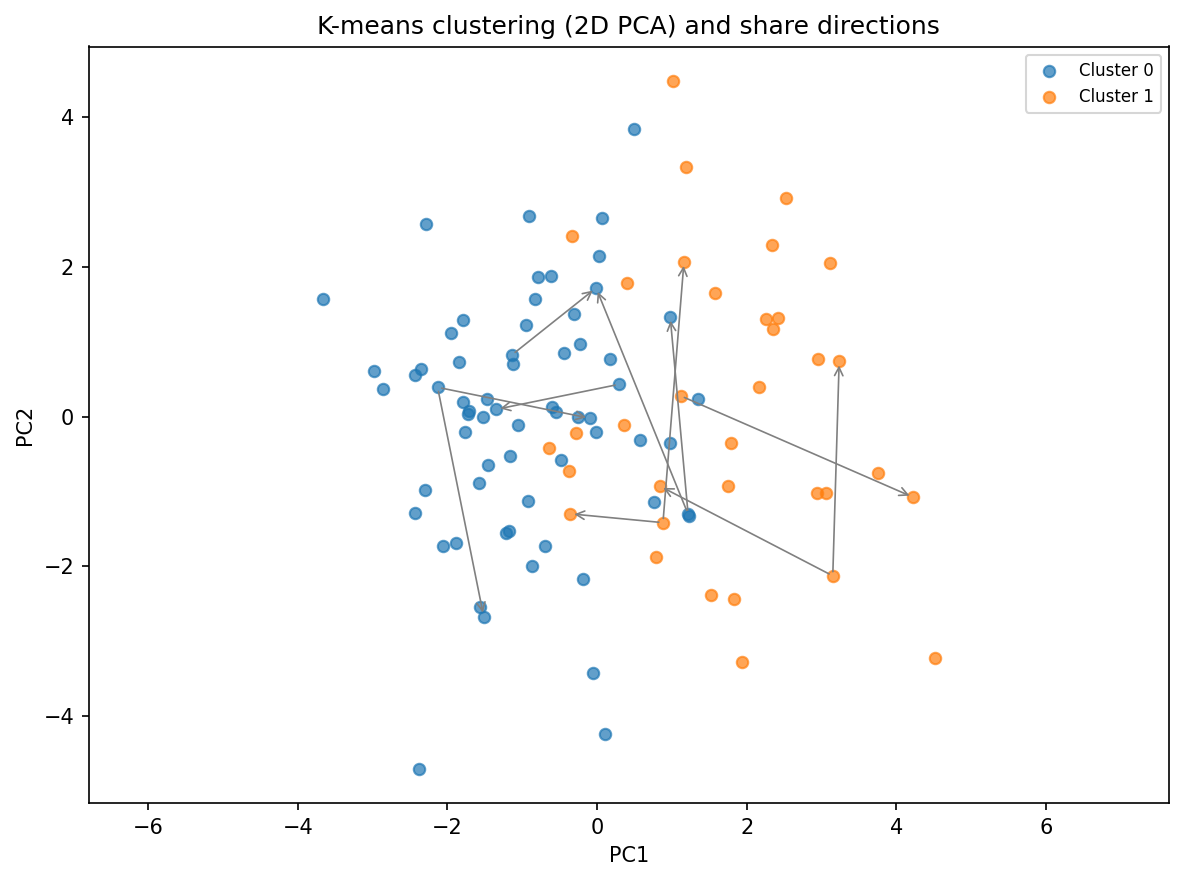
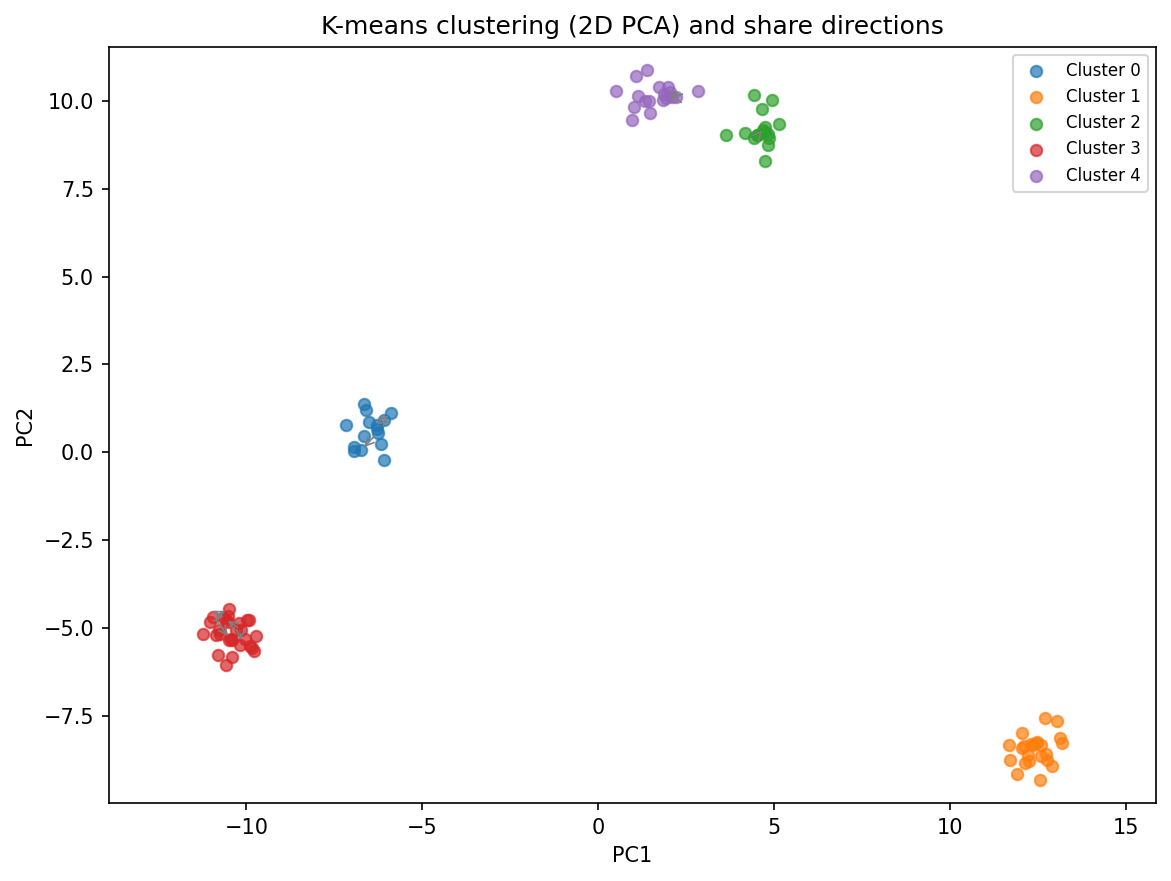
Example fixed

diff --git a/testing/example_100_agents.py b/testing/example_100_agents.py
@@ -23,32 +23,56 @@ from network import (
 PLACEHOLDER_MEDIA = "placeholder_media"
 
 
-def placeholder_reaction(uid, media):
+REACTION_OPTIONS = [
+    "I love this! So amazing and inspiring.",
+    "This is fantastic, everyone should see it.",
+    "Really great content, worth sharing.",
+    "Pretty good, I enjoyed it.",
+    "It's okay, nothing special.",
+    "Not my thing, but whatever.",
+    "Kind of boring to be honest.",
+    "I did not like this at all.",
+    "This is terrible and misleading.",
+    "Awful. Do not watch.",
+]
+
+
+def generate_clustered_vectors(
+    n_agents: int,
+    dim: int,
+    n_clusters: int = 5,
+    cluster_std: float = 0.4,
+    rng: np.random.Generator | None = None,
+) -> np.ndarray:
     """
-    Placeholder reaction: returns sentences with varied sentiment so that
-    some agents get share-related actions (like_share, dislike_share, etc.).
+    Generate personality vectors from a mixture of Gaussians so k-means finds
+    real cluster structure. Each cluster has a random center; agents are
+    assigned to clusters and get center + Gaussian noise.
     """
-    # Mix of reactions so VADER gives a spread; use uid for deterministic variety
-    options = [
-        "I love this! So amazing and inspiring.",
-        "This is fantastic, everyone should see it.",
-        "Really great content, worth sharing.",
-        "Pretty good, I enjoyed it.",
-        "It's okay, nothing special.",
-        "Not my thing, but whatever.",
-        "Kind of boring to be honest.",
-        "I did not like this at all.",
-        "This is terrible and misleading.",
-        "Awful. Do not watch.",
-    ]
-    return options[uid % len(options)]
+    rng = rng or np.random.default_rng()
+    # Well-separated cluster centers in dim dimensions
+    centers = rng.standard_normal((n_clusters, dim)) * 2.0
+    # Assign each agent to a cluster (roughly balanced)
+    assignment = rng.integers(0, n_clusters, size=n_agents)
+    vectors = centers[assignment] + rng.standard_normal((n_agents, dim)) * cluster_std
+    return vectors.astype(np.float64)
 
 
 def main():
     n_agents = 100
-    rng = np.random.default_rng(42)
+    # No seed: different agents every run
+    rng = np.random.default_rng()
     uids = list(range(n_agents))
-    vectors = rng.standard_normal((n_agents, PERSONALITY_DIM)).astype(np.float64)
+    # Clustered data so k-means finds multiple groups
+    vectors = generate_clustered_vectors(
+        n_agents, PERSONALITY_DIM, n_clusters=5, cluster_std=0.4, rng=rng
+    )
+
+    # Shuffle which reaction text maps to which uid so reactions vary each run
+    reaction_order = rng.permutation(len(REACTION_OPTIONS))
+
+    def placeholder_reaction(uid, media):
+        return REACTION_OPTIONS[reaction_order[uid % len(REACTION_OPTIONS)]]
 
     print("Running pipeline: 100 agents, placeholder media, placeholder reactions...")
     rep_uids, reactions, shares = run_media_pipeline(
@@ -56,7 +80,7 @@ def main():
         vectors,
         media=PLACEHOLDER_MEDIA,
         reaction_fn=placeholder_reaction,
-        seed=123,
+        seed=None,  # different share recipients etc. each run
     )
 
     print(f"Representatives: {len(rep_uids)} (10% of {n_agents})")
@@ -72,12 +96,50 @@ def main():
     labels, _, k = kmeans_auto_k(vectors)
     print(f"\nK-means: k={k} clusters")
 
-    # kmean_graph: coordinates and edges only (no graph)
+    # kmean_graph: coordinates and edges
     from kmean_graph import get_clustering_output
 
     coords, edges = get_clustering_output(uids, vectors, labels=labels, shares=shares)
     print(f"\nCoords shape: {coords.shape}")
     print("Edges (start_uid, end_uid):", edges)
+
+    # Plot: 2D points by cluster + share arrows
+    import matplotlib.pyplot as plt
+
+    plt.rcParams["figure.figsize"] = (8, 6)
+    fig, ax = plt.subplots()
+    uid_to_idx = {uid: i for i, uid in enumerate(uids)}
+    n_clusters = int(labels.max()) + 1
+    for c in range(n_clusters):
+        mask = labels == c
+        ax.scatter(
+            coords[mask, 0],
+            coords[mask, 1],
+            label=f"Cluster {c}",
+            alpha=0.7,
+            s=30,
+        )
+    for start_uid, end_uid in edges:
+        i = uid_to_idx.get(start_uid)
+        j = uid_to_idx.get(end_uid)
+        if i is None or j is None:
+            continue
+        ax.annotate(
+            "",
+            xy=(coords[j, 0], coords[j, 1]),
+            xytext=(coords[i, 0], coords[i, 1]),
+            arrowprops=dict(arrowstyle="->", color="gray", lw=0.8),
+        )
+    ax.set_xlabel("PC1")
+    ax.set_ylabel("PC2")
+    ax.set_title("K-means clustering (2D PCA) and share directions")
+    ax.legend(loc="best", fontsize=8)
+    ax.set_aspect("equal", adjustable="datalim")
+    plt.tight_layout()
+    out_path = Path(__file__).resolve().parent / "kmeans_graph_100.png"
+    fig.savefig(out_path, dpi=150, bbox_inches="tight")
+    print(f"\nSaved plot to {out_path}")
+    plt.show()
 
 
 if __name__ == "__main__":
